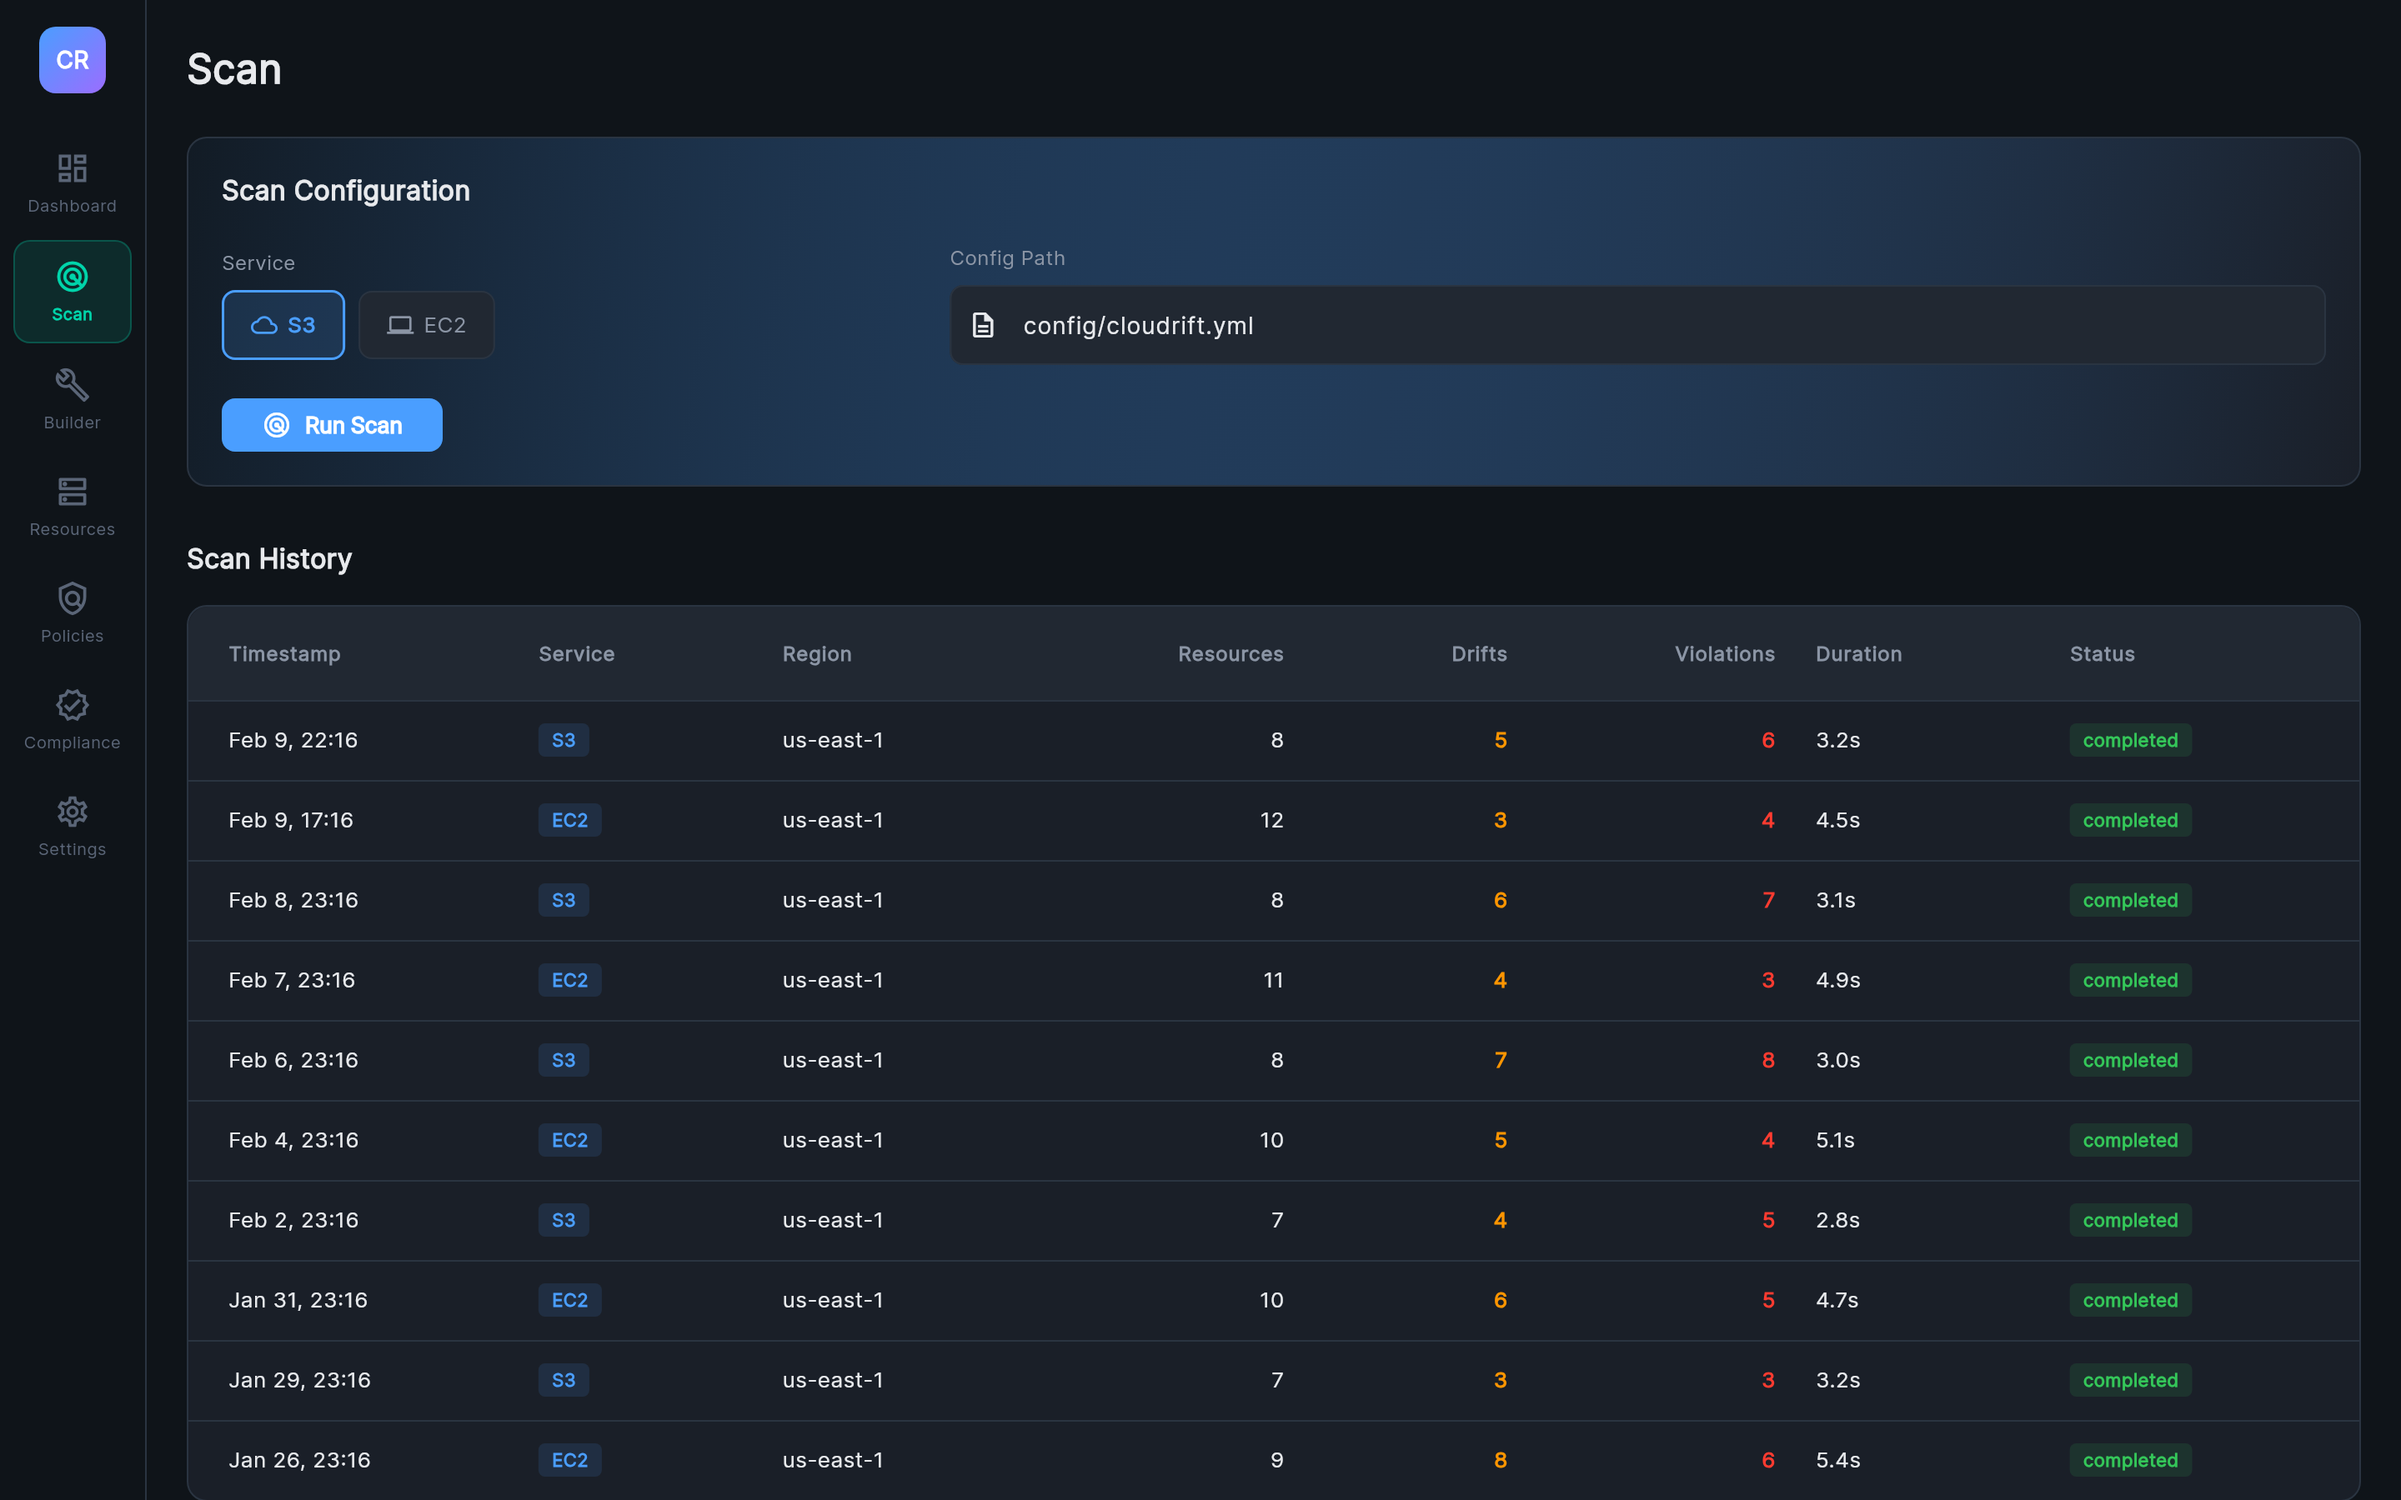
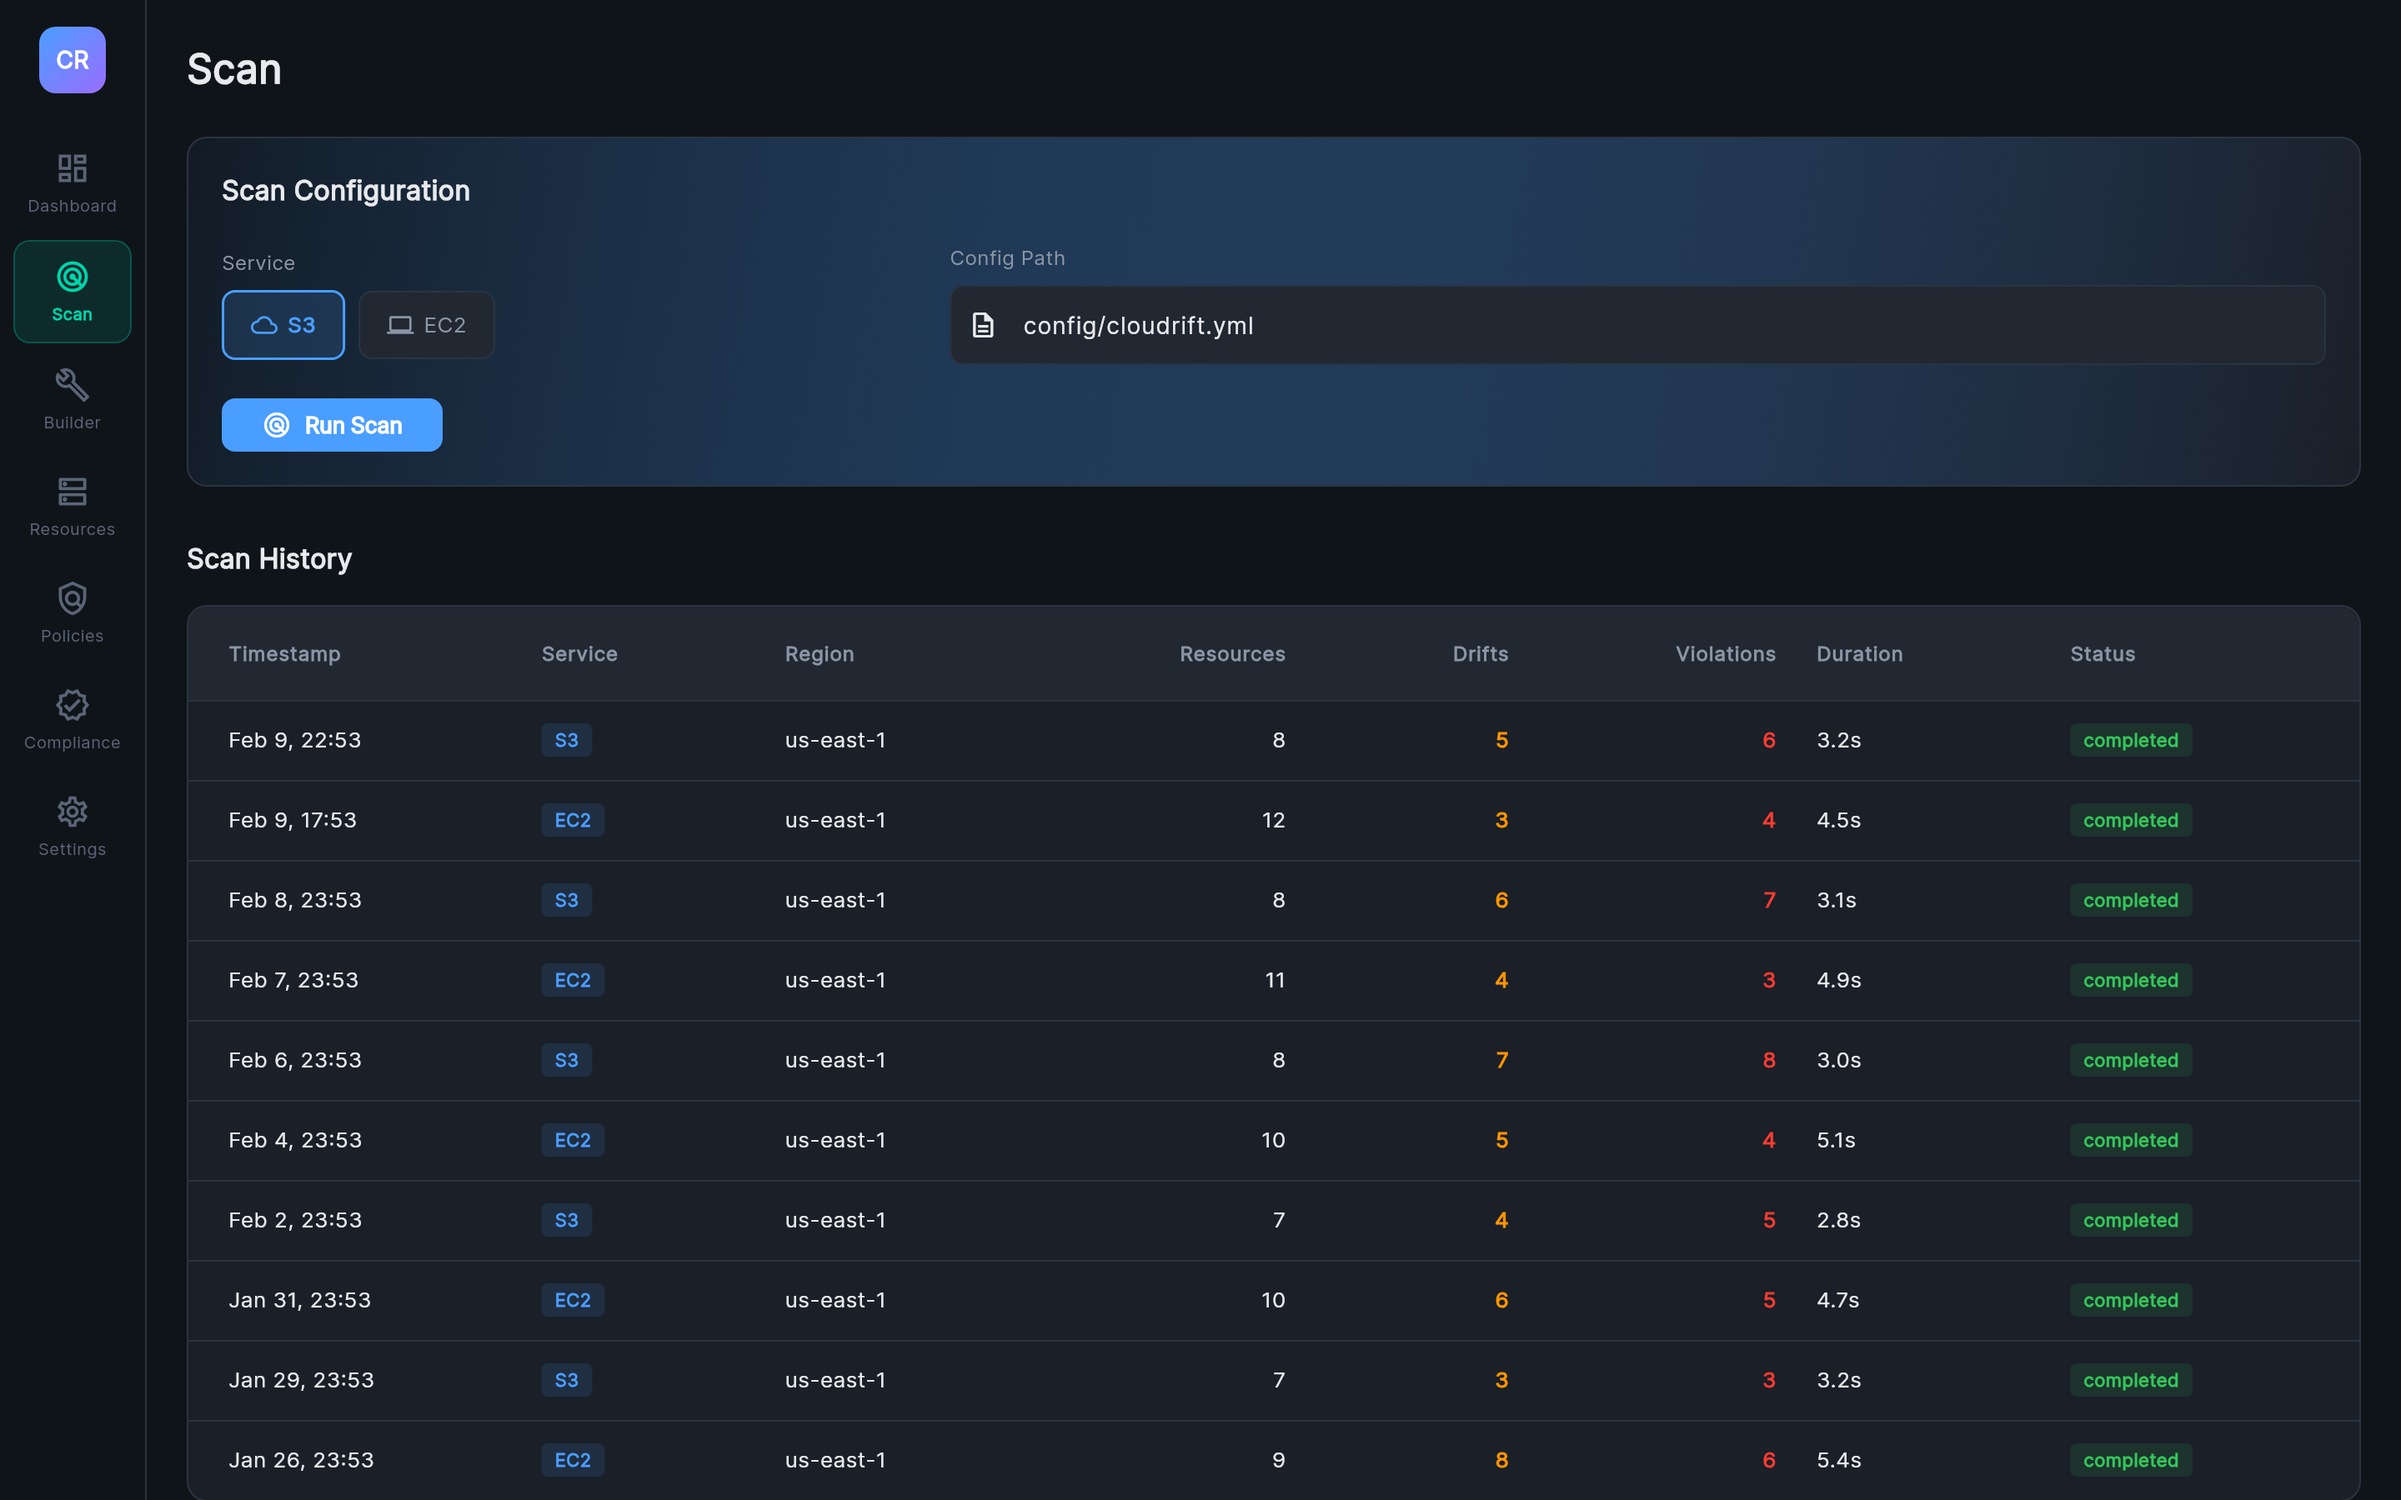
Update screenshots and README to highlight web + desktop deployment
- Retake all 7 screenshots from the Docker web version at 2x retina
- Add hero dashboard screenshot at top of README
- Rewrite intro to clearly present dual deployment model (Web via
  Docker vs Native Desktop) with feature parity callout
- Restructure Screenshots section with richer descriptions, horizontal
  rules, and note that desktop renders identically
- Rename Quick Start sections to "Web via Docker" and "Native Desktop"
  with deployment-mode callout blocks

diff --git a/README.md b/README.md
@@ -16,9 +16,19 @@
   <a href="LICENSE"><img src="https://img.shields.io/badge/License-Apache_2.0-blue?style=flat-square" alt="License"></a>
 </p>
 
+<p align="center">
+  <img src="assets/screenshots/01_dashboard.png" alt="Cloudrift UI Dashboard" width="800">
+</p>
+
 ---
 
-**Cloudrift UI** is a cross-platform dashboard for the [Cloudrift](https://github.com/inayathulla/cloudrift) infrastructure governance CLI. It runs as a native desktop app (macOS / Linux / Windows) or as a Docker-hosted web app with a Go API backend. It renders real-time drift detection results, policy violations with compliance framework mapping, and interactive compliance scoring in a dark-themed professional interface.
+**Cloudrift UI** is a cross-platform dashboard for the [Cloudrift](https://github.com/inayathulla/cloudrift) infrastructure governance CLI. It runs **two ways**:
+
+> **Web via Docker** — One command deploys a full-stack container with Flutter web app, Go API server, nginx, and Terraform. Open your browser and go.
+>
+> **Native Desktop** — Runs directly on macOS, Linux, or Windows with the Cloudrift CLI binary. No server needed.
+
+Both modes share the same codebase, the same 7 screens, and full feature parity — drift detection, policy evaluation, compliance scoring, and resource building all work identically regardless of deployment mode.
 
 ```
 ┌─────────────────────────────────────────────────────────────────────┐
@@ -39,8 +49,8 @@
 - [Features](#features)
 - [What's New in Release 2](#whats-new-in-release-2)
 - [Screenshots](#screenshots)
-- [Quick Start — Docker (Recommended)](#quick-start--docker-recommended)
-- [Quick Start — Desktop](#quick-start--desktop)
+- [Quick Start — Web via Docker (Recommended)](#quick-start--web-via-docker-recommended)
+- [Quick Start — Native Desktop](#quick-start--native-desktop)
 - [Architecture](#architecture)
 - [Screens](#screens)
 - [Configuration](#configuration)
@@ -82,49 +92,67 @@ Release 2 adds **web/Docker deployment**, a **hybrid Resource Builder**, **compl
 | **Policies Screen** | Severity sorting, framework/severity/status filters, violation counts in tab headers |
 | **Navigation** | Per-destination accent colors (blue, teal, purple, pink, orange, green, gray) instead of uniform blue |
 | **Scan Duration** | Human-readable format (e.g. "3.2s", "2m 15.3s") throughout the app |
-| **Settings** | Streamlined — removed plan editor, simplified to CLI config + scan defaults |
+| **Settings** | Unified config editor — load/save `cloudrift.yml` on both web (API) and desktop (file), with policy dir and scan defaults |
 | **Performance** | CLI command timeouts (5 min scan, 10 min Terraform), job cleanup goroutine, cached policy filters, efficient string building in Go |
 
 ## Screenshots
 
-### Dashboard
-Clickable KPI cards, drift trend chart, severity breakdown, framework compliance rings, top failing policies, and scan duration.
+> All screenshots below are from the **web version running in Docker** (`docker run -p 8080:80 cloudrift-ui`).
+> The desktop app renders identically — same screens, same layout, same features.
+
+### Dashboard — KPIs, Drift Trends & Framework Compliance
+Clickable KPI cards that navigate to related screens, live drift trend chart, severity donut breakdown, HIPAA/GDPR/ISO 27001/PCI DSS compliance rings, and top failing policies — all at a glance.
 
 ![Dashboard](assets/screenshots/01_dashboard.png)
 
-### Scan & History
-Configure and trigger scans with real-time progress. History table with human-readable durations.
+---
 
-![Scan](assets/screenshots/02_scan.png)
+### Scan & History — Run Scans, Track Results
+Select a service (S3/EC2), pick a config file, and trigger a scan. History table shows every past scan with region, drift counts, violation counts, and human-readable durations.
 
-### Resource Builder
-Three-mode builder: Terraform (upload .tf → generate plan.json), Manual (S3/EC2 forms), or Upload (drag & drop).
+![Scan & History](assets/screenshots/02_scan.png)
 
-![Builder](assets/screenshots/03_resource_builder.png)
+---
 
-### Resource Explorer
-Filter by service, severity, or search by name. Severity-coded accent bars for instant visual triage.
+### Resource Builder — Terraform, Manual & Upload
+Three ways to define your infrastructure plan:
+- **Terraform** — Upload `.tf` files and auto-generate `plan.json` (Docker runs `terraform init → plan → show -json`)
+- **Manual** — Build S3 buckets and EC2 instances from interactive forms
+- **Upload** — Drag & drop an existing `plan.json`
+
+![Resource Builder](assets/screenshots/03_resource_builder.png)
+
+---
+
+### Resource Explorer — Filter, Search & Triage
+Filter resources by service type, severity level, or search by name. Each card shows drift count and severity with color-coded accent bars for instant visual triage.
 
 ![Resources](assets/screenshots/04_resources.png)
 
-### Policy Dashboard
-21 OPA policies with compliance framework badges (HIPAA/GDPR/ISO/PCI), severity filters, and violation counts.
+---
+
+### Policy Dashboard — 21 OPA Policies with Compliance Mapping
+Every policy is mapped to compliance frameworks (HIPAA, GDPR, ISO 27001, PCI DSS). Filter by severity, framework, or pass/fail status. Violation counts show in tab headers.
 
 ![Policies](assets/screenshots/05_policies.png)
 
-### Compliance Scoring
-Animated compliance ring with category breakdowns (Security, Tagging, Cost) and trend over time.
+---
+
+### Compliance Scoring — Animated Rings & Category Breakdowns
+Large animated compliance ring showing overall posture. Category cards (Security, Tagging, Cost) with mini rings and per-policy drill-down. Trend chart shows compliance over time.
 
 ![Compliance](assets/screenshots/06_compliance.png)
 
-### Settings
-CLI path configuration, AWS credentials, scan defaults, and data management.
+---
+
+### Settings — Config File Editor, CLI & Scan Defaults
+Load and save `cloudrift.yml` config files (web uses the Go API, desktop reads/writes locally). Configure AWS profile, region, policy directory, and scan behavior. Works identically on both web and desktop.
 
 ![Settings](assets/screenshots/07_settings.png)
 
-## Quick Start — Docker (Recommended)
+## Quick Start — Web via Docker (Recommended)
 
-The Docker image bundles everything: Flutter web app, Go API server, nginx, and Terraform.
+> **Zero dependencies.** The Docker image bundles the Flutter web app, Go API server, nginx reverse proxy, Cloudrift CLI, and Terraform — everything in one container.
 
 ```bash
 # Build the image
@@ -162,7 +190,9 @@ The Resource Builder's Terraform mode auto-detects mounted files.
 4. Click **Generate Plan from Terraform** — runs `terraform init` → `plan` → `show -json` inside the container
 5. Go to **Scan** → click **Run Scan** → view results across all screens
 
-## Quick Start — Desktop
+## Quick Start — Native Desktop
+
+> **Direct CLI access.** The desktop app calls the Cloudrift binary directly via `Process.run()` — no server, no container, no network overhead.
 
 ### Prerequisites
 
